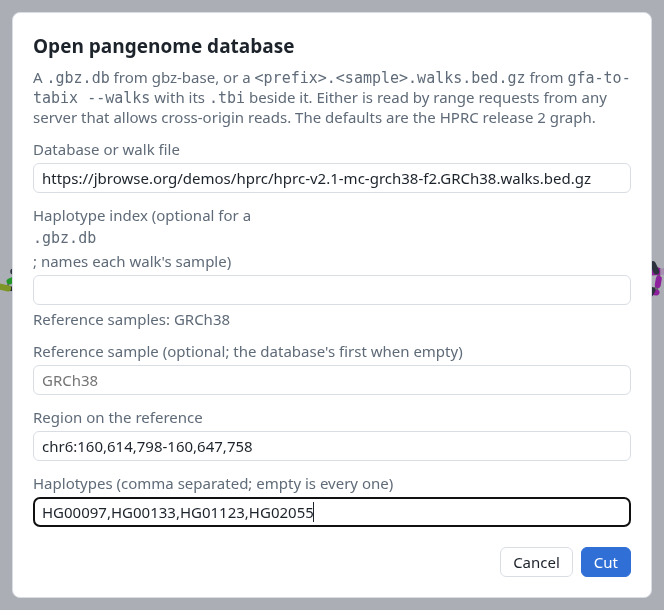
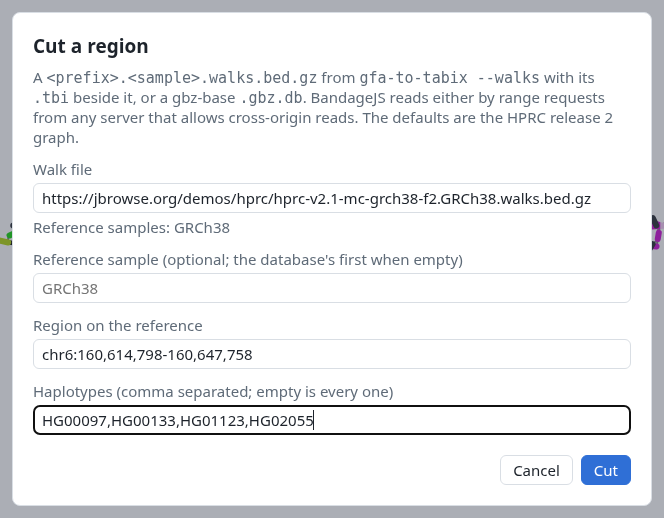
Point the docs and tutorial at walks= and walk files first
- README, links, walk file docs and the tutorial write walks= links;
  links.md keeps gbz= as the older name
- vg convert becomes an aside for graphs shipped as .gbz
- The tutorial drops the haplotype index step and its screenshots show
  the reworded cut dialog
- The cut dialog's reference and status text say file, not database

diff --git a/public/index.html b/public/index.html
@@ -403,7 +403,7 @@
         </label>
         <p class="hint" id="gbz-status"></p>
         <label>
-          Reference sample (optional; the database's first when empty)
+          Reference sample (optional; the file's first when empty)
           <input id="gbz-ref" list="gbz-refs" placeholder="GRCh38" />
           <datalist id="gbz-refs"></datalist>
         </label>

diff --git a/src/dialogs.ts b/src/dialogs.ts
@@ -175,7 +175,7 @@ async function probe() {
     ui.gbzStatus.textContent = ''
     return
   }
-  ui.gbzStatus.textContent = 'Opening the database…'
+  ui.gbzStatus.textContent = 'Opening the file…'
   let note = ''
   let samples: string[] | undefined
   try {

diff --git a/docs/links.md b/docs/links.md
@@ -3,20 +3,22 @@
 The address always states the view on screen, and File → **Copy link** copies
 it. A graph opened from your computer has no link.
 
-| Parameter                                              | Meaning                                                                                                           |
-| ------------------------------------------------------ | ----------------------------------------------------------------------------------------------------------------- |
-| `gfa`                                                  | GFA url                                                                                                           |
-| `gbz`, `index`, `loc`, `ref`, `haps`                   | Cut: database or walk file url (or `hprc`), haplotype index, region, reference sample, comma-separated haplotypes |
-| `hub`, `assembly`, `contigs`                           | Genes: JBrowse configs, assembly, `graph:assembly` contig names                                                   |
-| `layout`                                               | `force`, `anchored`, `ordered`, `samplerows`, `walkrows`, `tubemap` or `tubemapref`                               |
-| `along`                                                | Walk that a walk-anchored graph draws along                                                                       |
-| `walk`                                                 | Highlighted walk, repeated per walk                                                                               |
-| `facet`, `columns`                                     | `none`, `walk` or `sample`; panels across                                                                         |
-| `node`                                                 | Selected node                                                                                                     |
-| `view`                                                 | `x,y,scale` at the pane's centre; absent when fitted                                                              |
-| `color`, `width`, `thickness`                          | Colour scheme, `depth` or `uniform` width, node width in px                                                       |
-| `bubbles`, `deletions`, `genes`, `paths`, `bars`       | `1` or `0` for each drawn element                                                                                 |
-| `engine`, `quality`, `spacing`, `separation`, `spread` | Force layout settings                                                                                             |
+| Parameter                                              | Meaning                                                                              |
+| ------------------------------------------------------ | ------------------------------------------------------------------------------------ |
+| `gfa`                                                  | GFA url                                                                              |
+| `walks`, `loc`, `ref`, `haps`                          | Cut: walk file url (or `hprc`), region, reference sample, comma-separated haplotypes |
+| `index`                                                | Haplotype index for a `.gbz.db` in `walks`                                           |
+| `gbz`                                                  | Older name for `walks`; `gbz=hprc` cuts the HPRC `.gbz.db`                           |
+| `hub`, `assembly`, `contigs`                           | Genes: JBrowse configs, assembly, `graph:assembly` contig names                      |
+| `layout`                                               | `force`, `anchored`, `ordered`, `samplerows`, `walkrows`, `tubemap` or `tubemapref`  |
+| `along`                                                | Walk that a walk-anchored graph draws along                                          |
+| `walk`                                                 | Highlighted walk, repeated per walk                                                  |
+| `facet`, `columns`                                     | `none`, `walk` or `sample`; panels across                                            |
+| `node`                                                 | Selected node                                                                        |
+| `view`                                                 | `x,y,scale` at the pane's centre; absent when fitted                                 |
+| `color`, `width`, `thickness`                          | Colour scheme, `depth` or `uniform` width, node width in px                          |
+| `bubbles`, `deletions`, `genes`, `paths`, `bars`       | `1` or `0` for each drawn element                                                    |
+| `engine`, `quality`, `spacing`, `separation`, `spread` | Force layout settings                                                                |
 
 A parameter appears only when it differs from the default.
 

diff --git a/docs/walk-files-tutorial.md b/docs/walk-files-tutorial.md
@@ -1,6 +1,6 @@
 # Walk file tutorial
 
-- **In:** a pangenome graph as GFA (or `.gbz`), indexed by
+- **In:** a pangenome graph as GFA, indexed by
   [gfa-to-tabix](https://github.com/GMOD/gfa-to-tabix) `--walks`
 - **Out:** one region of the graph in the browser, with each haplotype's walk
   through it
@@ -11,12 +11,13 @@ walk file. [Walk files](walk-files.md) is the short reference.
 ## 1. Index the graph
 
 ```console
-vg convert -f graph.gbz > graph.gfa
 gfa-to-tabix graph.gfa --walks --refs GRCh38 -o graph
 ```
 
 - The run writes `graph.GRCh38.walks.bed.gz` and `graph.GRCh38.walks.bed.gz.tbi`
 - BandageJS needs walk format 2, from gfa-to-tabix 1.0 or later
+- A graph shipped as `.gbz` converts first:
+  `vg convert -f graph.gbz > graph.gfa`
 
 ## 2. Host both files
 
@@ -39,12 +40,11 @@ Paste the `.walks.bed.gz` url under **From a url** and press **Open**:
 ## 4. Choose the region and haplotypes
 
 BandageJS recognises the `.walks.bed.gz` name and opens the cut dialog. Once it
-reads the file's header, the dialog lists the reference samples under the
-haplotype index field.
+reads the file's header, the dialog lists the reference samples under the walk
+file field.
 
 ![The cut dialog filled in for chr6:160,614,798-160,647,758 and four HPRC samples](../img/tutorial/cut_dialog.png)
 
-- **Haplotype index:** leave empty; walk files name their samples
 - **Reference sample:** leave empty to use the file's first, here GRCh38
 - **Region:** 1-based and closed, on the reference, as JBrowse writes it
 - **Haplotypes:** sample names, comma separated; empty keeps every one
@@ -79,8 +79,10 @@ length:
 The address holds the whole cut, so File → **Copy link** shares it:
 
 ```
-?gbz=https://jbrowse.org/demos/hprc/hprc-v2.1-mc-grch38-f2.GRCh38.walks.bed.gz&loc=chr6:160,614,798-160,647,758&haps=HG00097,HG00133,HG01123,HG02055&layout=walkrows
+?walks=hprc&loc=chr6:160,614,798-160,647,758&haps=HG00097,HG00133,HG01123,HG02055&layout=walkrows
 ```
+
+`hprc` stands for the HPRC walk file; a link to your own file holds its url.
 
 [Links](links.md) lists every parameter.
 

diff --git a/docs/walk-files.md b/docs/walk-files.md
@@ -5,17 +5,20 @@ haplotype's path by reference chunk. A cut reads the chunks under the window and
 needs no haplotype index.
 
 ```console
-vg convert -f graph.gbz > graph.gfa
 gfa-to-tabix graph.gfa --walks --refs GRCh38 -o graph
 ```
 
+- A graph shipped as `.gbz` converts first:
+  `vg convert -f graph.gbz > graph.gfa`
+
 - Host `graph.GRCh38.walks.bed.gz` with its `.tbi`, then paste the url into Open
-  or give it as `gbz=`
+  or give it as `walks=`
 - Files need walk format 2 (gfa-to-tabix 1.0 or later)
 - Regions are 1-based, on the file's reference (`chr6:160,614,798-160,647,758`),
   so `ref=` is optional
-- Example, the hosted HPRC release 2 file:
-  `?gbz=https://jbrowse.org/demos/hprc/hprc-v2.1-mc-grch38-f2.GRCh38.walks.bed.gz&loc=chr6:160,614,798-160,647,758&haps=HG00097,HG00133`
+- `walks=hprc` names the hosted HPRC release 2 file,
+  `https://jbrowse.org/demos/hprc/hprc-v2.1-mc-grch38-f2.GRCh38.walks.bed.gz`:
+  `?walks=hprc&loc=chr6:160,614,798-160,647,758&haps=HG00097,HG00133`
 
 [The tutorial](walk-files-tutorial.md) walks through a cut with screenshots.
 

diff --git a/README.md b/README.md
@@ -3,7 +3,7 @@
 Browser viewer for pangenome graphs, at https://jbrowse.org/demos/bandagejs/
 
 - **Built for:** pangenomes. Haplotype walks, bubbles, genes and regions cut
-  from a GBZ are first-class
+  from a walk file are first-class
 - **Also opens:** de novo assembly graphs, as
   [Bandage](https://github.com/rrwick/Bandage) does
 
@@ -18,8 +18,8 @@ Browser viewer for pangenome graphs, at https://jbrowse.org/demos/bandagejs/
 - **Open:** File → Open, paste a url, drop a GFA on the page, or use
   `?gfa=<url>`
 - **Cut a region:**
-  `?gbz=hprc&loc=chr6:160,614,798-160,647,758&haps=HG00097,HG00133`. Paste a
-  `.gbz.db` or [walk file](docs/walk-files.md) url to cut your own
+  `?walks=hprc&loc=chr6:160,614,798-160,647,758&haps=HG00097,HG00133`. Paste a
+  [walk file](docs/walk-files.md) url (or a gbz-base `.gbz.db`) to cut your own
 - **Go to:** type a region, position or gene name in the location box (`g`);
   regions read 1-based, as JBrowse writes them
 - **Inspect:** click a node, or find it by name, for its links, walks, bubble

diff --git a/docs/developing.md b/docs/developing.md
@@ -80,5 +80,5 @@ pnpm's own command.
 ## Examples
 
 `examples/index.json` lists the Examples menu. A `file` entry is a GFA in
-`examples/`. A `gbz: "hprc"` entry is cut live from the HPRC release 2 `.gbz.db`
-on S3.
+`examples/`. A `walks: "hprc"` entry is cut live from the HPRC release 2 walk
+file.
